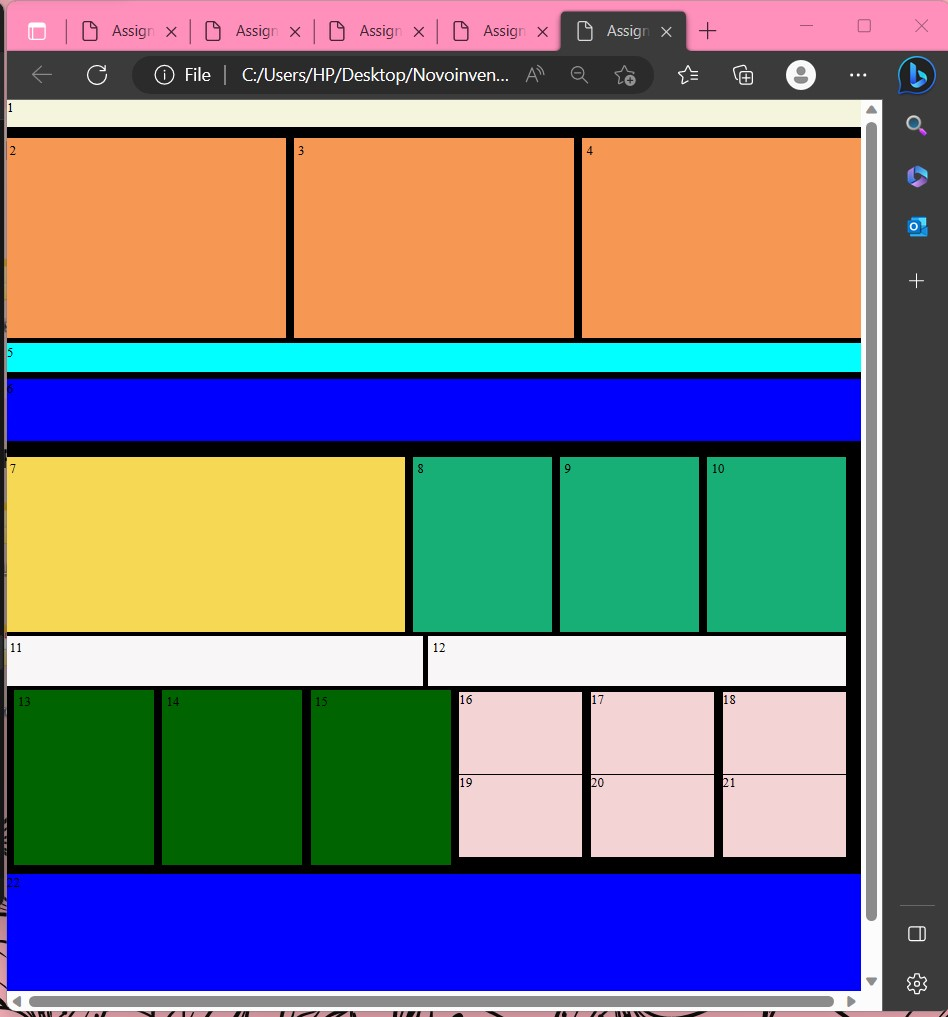
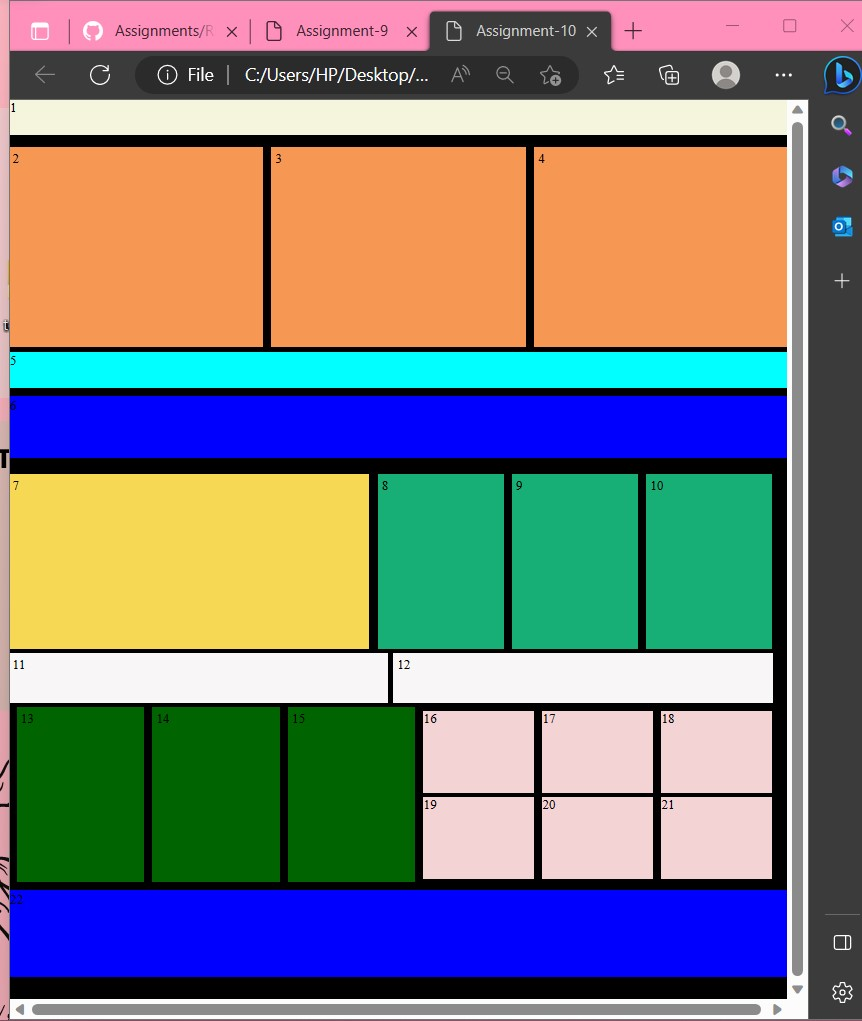
New edits

Changed region(s): [[0.0, 0.0, 1.0, 1.0], [0.7541, 0.061, 0.8747, 0.0914], [0.9049, 0.0, 0.935, 0.0305]]

diff --git a/Assignment9.html b/Assignment9.html
@@ -40,17 +40,22 @@ body{
 .thirdpart {
   background-color: rgb(221, 213, 213);
   padding:10px;
+  width:50px;
+  
 }
 
 .four {
+  width:110%;
   background-color: #ffd7b4;
   padding:10px;
+  margin-left:-80px;
 }
 
 .narrow{
   background-color: #fd973f;
 }
 .sub-grid {
+  width:130%;
   display: grid;
   grid-template-columns: 1fr 1fr;
   grid-template-rows: 1fr 1fr;
@@ -79,7 +84,7 @@ body{
     <div class="second" style="position :relative; margin-top:2px;margin-left:-10px; margin-right:-10px;">2 </div>
 
     <div class="grid-container">
-        <div class="thirdpart" style="position :relative; margin-top:2px;margin-left:-10px;">3.</div>
+        <div class="thirdpart" style="position :relative; margin-top:2px;">3.</div>
         <div class="four">4.</div>
         <div class="sub-grid">
             <div class="narrow">5.</div>
@@ -88,7 +93,7 @@ body{
             <div class="narrow">9.</div>
         </div>
 
-        <div class="thirdpart" style="position :relative; margin-top:2px; margin-right:-10px;">7.</div>
+        <div class="thirdpart" style="position :relative; margin-top:2px; margin-left:90px">7.</div>
     </div>
 
     <div class="top" style="position :relative; margin-top:2px;margin-left:-10px; margin-right:-10px;padding:10px;">10</div>
@@ -97,8 +102,8 @@ body{
     <div class="second" style="position :relative; margin-top:2px;margin-left:-10px; margin-right:-10px;">12</div>
 
     <div class="grid-container2" style="position :relative; margin-top:2px;margin-left:-10px; margin-right:-10px;">
-        <div class="base" style="padding:10px">13</div>
-        <div class="base" style="padding:10px">14</div>
+        <div class="base" style="padding:10px ; margin-left:15px">13</div>
+        <div class="base" style="padding:10px; margin-right:15px">14</div>
     </div>
 
 </div>

diff --git a/Assignment10.html b/Assignment10.html
@@ -14,7 +14,7 @@
             padding: 2px;
             background: beige;
             width:100%;
-            height:30px;
+            height:40px;
         }
 .container {
   display: flex;
@@ -77,7 +77,7 @@
   height: 98px;
   background-color: #f3d3d3;
   margin-right: 10px;
-  margin-top:2px;
+  margin-top:5px;
 }
 
     </style>
@@ -122,6 +122,6 @@
       </div>
       
  </div>
- <div class="div1" style="background-color:blue;position: relative; margin:10px -10px 0 -10px; width:102%; margin-bottom:-50px;height:200px">22</div><br>
+ <div class="div1" style="background-color:blue;position: relative; margin:10px -10px 0 -10px; width:102%; height:100px">22</div><br>
 </body>
 </html>
